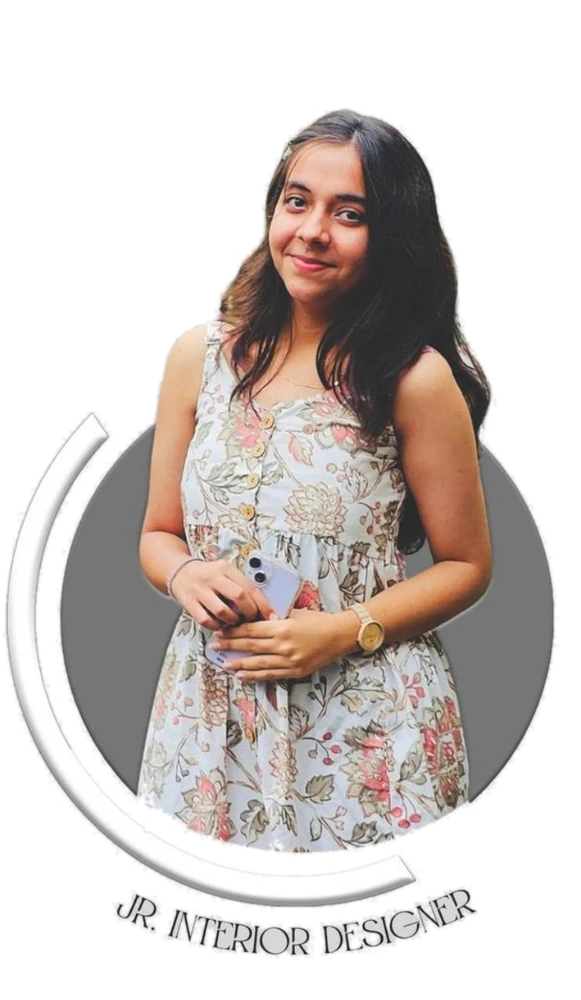
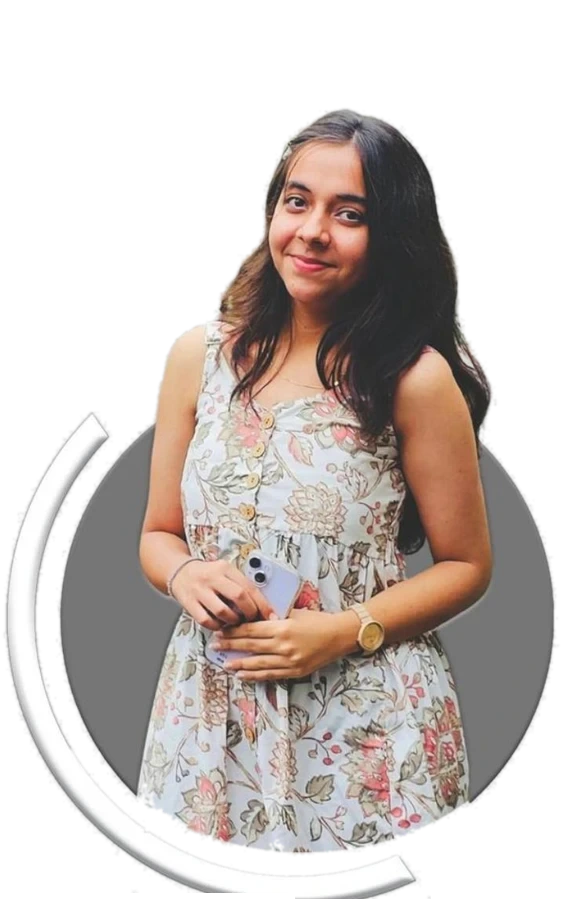
Hero renders, remove junior and portrait lettering

diff --git a/index.html b/index.html
@@ -4,7 +4,7 @@
 <meta charset="utf-8">
 <meta name="viewport" content="width=device-width, initial-scale=1">
 <title>Roshni Ahuja — Interior Designer Portfolio</title>
-<meta name="description" content="Portfolio of Roshni Ahuja, junior interior designer: residential, healthcare, hospitality, workspace and retail projects with renders and mood boards.">
+<meta name="description" content="Portfolio of Roshni Ahuja, interior designer: residential, healthcare, hospitality, workspace and retail projects with renders and mood boards.">
 <meta property="og:title" content="Roshni Ahuja — Interior Designer">
 <meta property="og:description" content="Residential, commercial and hospitality interiors — renders and mood boards.">
 <meta property="og:image" content="img/r014a.webp">
@@ -33,16 +33,16 @@
     <div class="hero-text">
       <p class="eyebrow">Portfolio &middot; 2026</p>
       <h1>ROSHNI<br>AHUJA<b>.</b></h1>
-      <p class="lede">Junior interior designer shaping spaces that look thoughtful and work beautifully &mdash; Residential, Healthcare, Hospitality, Workspace and Retail.</p>
+      <p class="lede">Interior designer shaping spaces that look thoughtful and work beautifully &mdash; Residential, Healthcare, Hospitality, Workspace and Retail.</p>
       <div class="hero-cta">
         <a class="btn" href="#projects">View projects</a>
         <a class="btn ghost" href="#contact">Get in touch</a>
       </div>
     </div>
     <div class="hero-circles" aria-hidden="true">
-      <img src="img/t014.webp" alt="">
-      <img src="img/t038.webp" alt="">
-      <img src="img/t095.webp" alt="">
+      <img src="img/hero1.webp" alt="">
+      <img src="img/hero2.webp" alt="">
+      <img src="img/hero3.webp" alt="">
     </div>
   </section>
 
@@ -50,7 +50,7 @@
   <section class="about" id="about">
     <div class="wrap about-grid">
       <figure class="portrait">
-        <img src="img/roshni.webp" alt="Roshni Ahuja" width="581" height="1000">
+        <img src="img/roshni.webp" alt="Roshni Ahuja" width="581" height="899">
       </figure>
       <div class="about-copy">
         <h2 class="sec-title">Profile</h2>
@@ -169,7 +169,7 @@
       <p class="thanks">THANK<br>YOU<b>.</b></p>
       <div class="contact-card">
         <h2>Let&rsquo;s work together</h2>
-        <p>I&rsquo;m looking for a junior interior designer role where I can learn, contribute and grow.</p>
+        <p>I&rsquo;m looking for an interior designer role where I can learn, contribute and grow.</p>
         <ul id="contact-links" class="contact-links"></ul>
       </div>
     </div>

diff --git a/script.js b/script.js
@@ -174,7 +174,7 @@ $('#g-bottle').outerHTML = `<div class="gcards one art"><div class="gcard rv"><b
 $('#g-rangoli').outerHTML = `<div class="gcards one art"><div class="gcard rv"><button type="button" data-group="rangoli" data-full="${full(135)}" data-cap="Portrait rangoli"><img loading="lazy" src="${full(135)}" alt="Portrait rangoli"></button></div></div>`;
 
 /* Hero circles */
-document.querySelectorAll('.hero-circles img').forEach((img, i) => { img.src = thumb(['r014a', 'r038d', 'r095a'][i]); });
+document.querySelectorAll('.hero-circles img').forEach((img, i) => { img.src = thumb(['hero1', 'hero2', 'hero3'][i]); });
 
 /* Contact */
 const links = [
